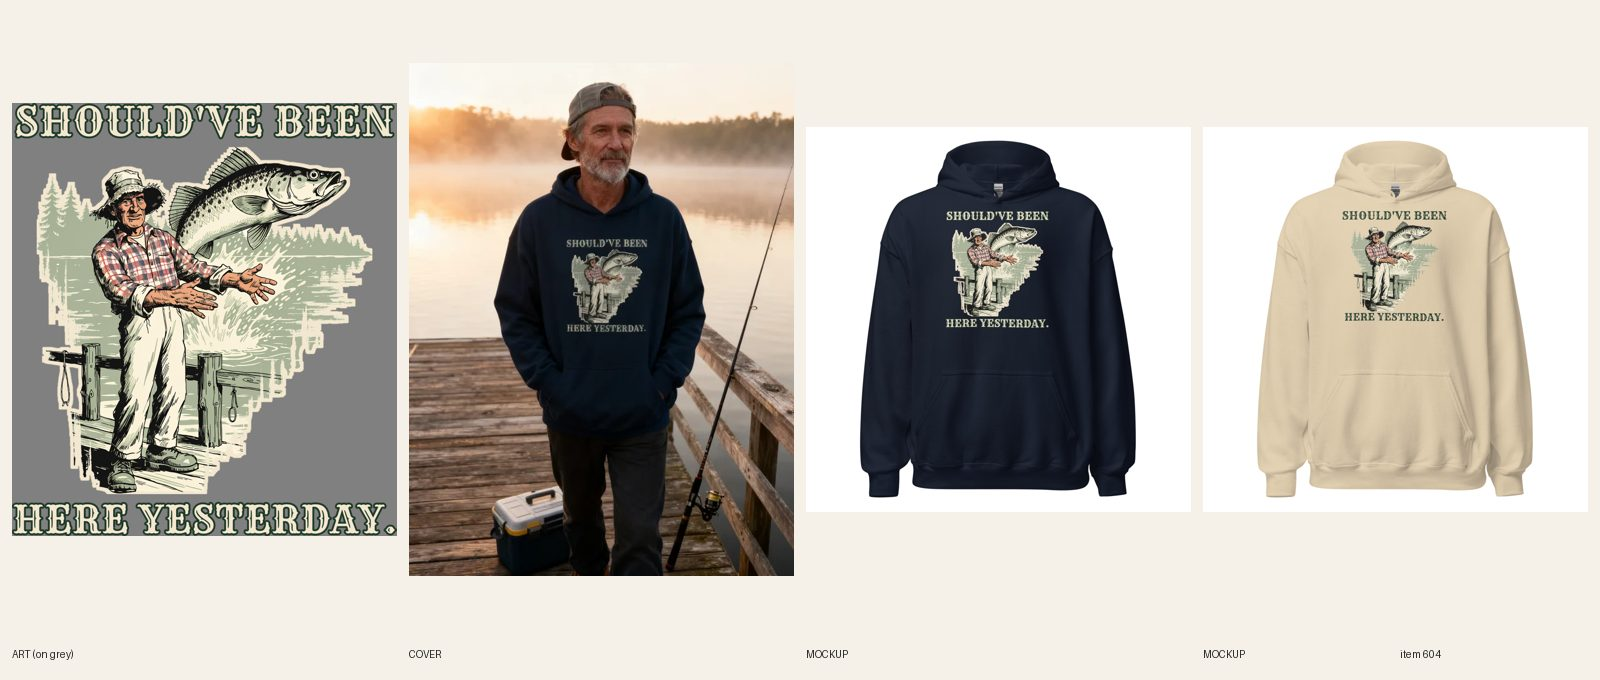
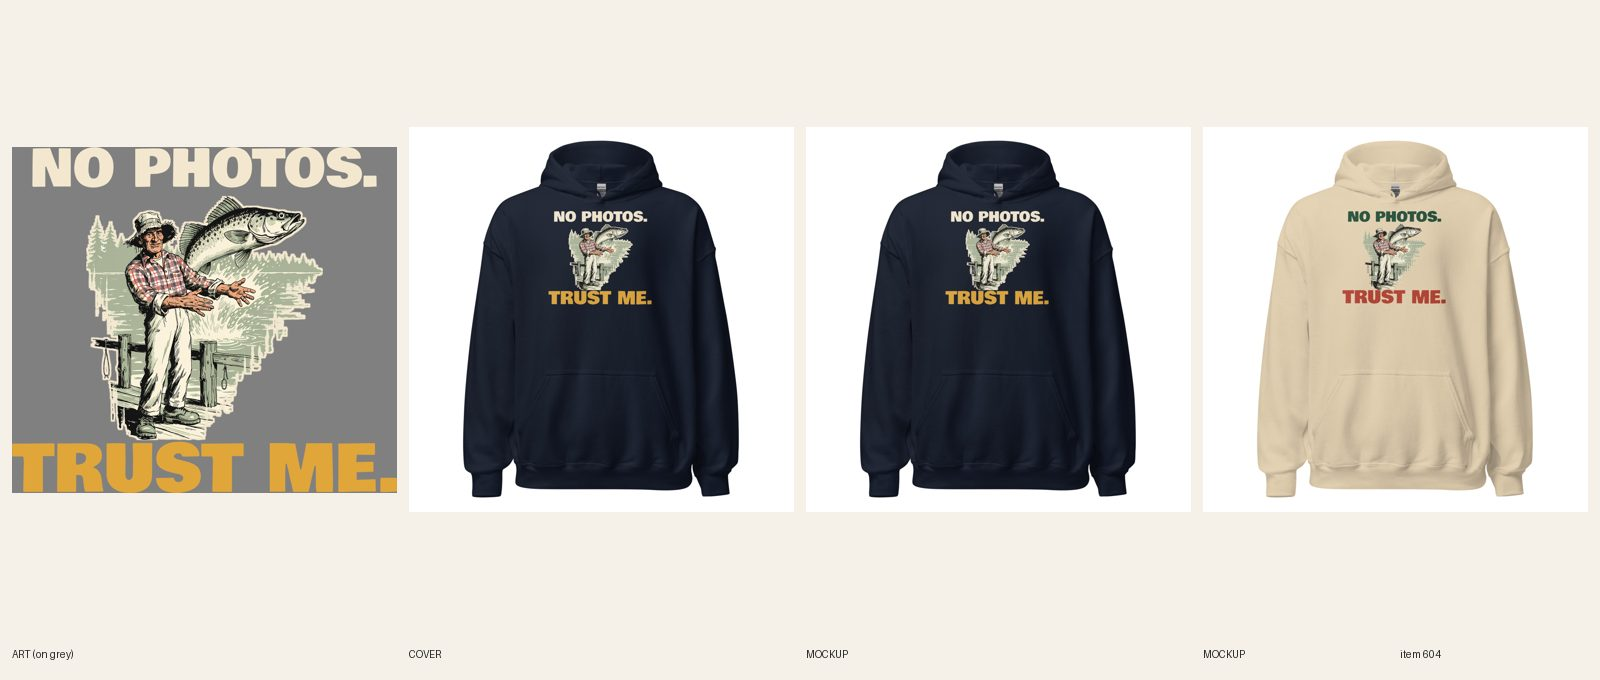
[C] review 604 fishing hoodie No Photos Trust Me

Changed region(s): [[0.0, 0.1235, 0.5, 0.8647], [0.8438, 0.3088, 0.9062, 0.4941], [0.5938, 0.3088, 0.6562, 0.4941]]

diff --git a/docs/pipeline/604-fishing-hoodie-shouldve-been-here-yesterday.md b/docs/pipeline/604-fishing-hoodie-shouldve-been-here-yesterday.md
@@ -1,4 +1,4 @@
-status: BUILDING [C] 2026-10-20 22:00 UTC
+status: REVIEW
 shopify: gid://shopify/Product/15364884529456
 lane: C
 type: twin
@@ -35,3 +35,4 @@ kd: 36
 - 2026-10-18 08:19 UTC director: LIVE. Sheet reviewed (R3, R4/R5, R6, R8, R13.3); copy OK. ACTIVE + Online Store, Headless, Google & YouTube; cohesion-audit --handle PASS 0 warn.
 - 2026-10-18 17:22 UTC director: QUALITY RESET grade C (new line + type), REDO. The product stays ACTIVE (same handle, URL, title keyword). 1. Line (R3.12, quality-reset 'Lines'): "Should've Been / Here Yesterday.": Stock fishing saying, not a joke for a stranger; needs angler backstory. Write 5 candidates, keep the one a stranger laughs at in 3 seconds without backstory; kill lines that only describe the picture; if none of the 5 is funny, PARK it. 2. Quality reset type bar (docs/backlog/quality-reset.md, 'The new bar'): headline at least 90% of the art width, heavy, colors pulled from the art; second line at least 45% of the headline's height, never a thin script on a dark or mid garment; use the lettering as a shape (arch, stacked lockup, words breaking into the art), not a plain bar above and a script line below; no font used on more than 1 in 6 of the last 30 designs. 3. Keep the art if it carries the new line, else one new illustration (R4/R5). New print means a new cover per R6.10, copy line one rewritten for the new joke (R8.3), and a fresh review sheet (R7.7). While quality-reset.md says PAUSED, only lane A builds, and only the samples step 2 names.
 - 2026-10-20 09:47 UTC builder [C]: HELD, not started: source design #543 (lane B) is still a REDO and has not picked its new line; a twin carries the design's line (R3.9), so building #604 first would split the line between the two. Back to REDO; take it right after #543 reaches REVIEW (then port its print).
+- REDO done (twin of #543 round 2): new line NO PHOTOS. / TRUST ME. ported (the 5 candidates and the joke QC are on #543). Title now Men's Fishing – No Photos, Trust Me Hoodie (handle unchanged); SEO title 'Men's Fishing Pullover – No Photos, Trust Me Hoodie' (fishing pullover primary), meta, copy line one and 5 FAQs (46-53 words, order-by Dec 8) rewritten; line one says the print's words + who + when, no superlative. Source #543 lettering already checked (real fonts, no panel). Widths from #543's files: NO PHOTOS. 3060 px / TRUST ME. 3399 px (punch 111% of headline), subject 61% of lockup width, type 38% of print height. Light file: Sand on 1090694257 (dark ink: forest green + red), Navy on 1090694354 (cream + mustard, cream edge on the art). FW 1500 TOP 0 (print 1,349 px high, ends above the pouch seam). Verified 12/12 relinked (6 Sand, 6 Navy, back logo 1080398177 kept). 2 fronts replaced in place with new alts, back unchanged. Phone-size read of both: NO PHOTOS., the angler, the leaping walleye and TRUST ME. all read. Cover: old AI cover shows old words, handle added to retired-covers.json (flat shot). fal $0.

diff --git a/docs/intake-log.md b/docs/intake-log.md
@@ -5,6 +5,7 @@ RUNNING lane B since 2026-10-20 21:46 UTC
 2026-10-20 21:31 UTC — [C] Builder run: #693 strawberry mug punch widened to 100% of headline, REVIEW.
 2026-10-20 21:30 UTC — [C] Builder run: #692 alien mug photos re-attached (3 mockups), REVIEW.
 RUNNING lane C since 2026-10-20 21:30 UTC
+[C] Builder run: #604 men's fishing hoodie ported to NO PHOTOS. TRUST ME., REVIEW.
 [C] Builder run: #635 women's fishing zip hoodie AGAIN. widened to the headline's width, REVIEW.
 2026-10-20 21:50 UTC — [D] Director run: 6 LIVE (the cap), add-ons first per the inbox order, all approved 20:25 and re-read beside 493 and 483: mugs #690 Pillaging Is a Young Man's Game, #691 Horse Girl, Broke on Purpose; Frenchie ornaments #721 Silent Night. Except the Snoring., #725 Santa's Cookies? What Cookies., #727 I'm Helping. You're Welcome.; sweatpants #711 Rack Your Weights. Respectfully. (ACTIVE + Online Store, Headless, Google & YouTube; audit --handle PASS). Reviewed the 4 new items: approved and held #714 and #715 sweatpants; REDO #742 barre cropped hoodie (R5.3.4 swan holds the barre with a human hand like a pole; plain bars around a small figure). Article #801 Funny Hoodies: committed without draft: true, so it went live unreviewed at 20:46; read it, checked all six picks on Shopify (live, $39.99, colors right), fixed one 'hand-drawn' line, approved; writer card now says to check for the draft line. Briefs: #753 boxing hoodie (3,600 / KD 20, lane B) and #754 turtle hoodie (880 / KD 31, lane C); READY now A 12 / B 12 / C 12 / E 11. Kids line noted (needs a youth-hoodie blank check and audit support first). Re-asked Sam on Telegram, in plain words, whether the ~80 already-on-sale redos can be signed off outside the 6-LIVE cap. No digest (12:17 run sent it). Lock released.
 2026-10-20 20:48 UTC — [H] Helper run: Telegram inbox had 1 message from Sam (not a command: he is unsure what the director is asking permission for). Logged a paraphrase in docs/inbox.md, replied "Got it, passing it to the director (next run about 21:50 UTC).", consumed the update. Audit 636 live products: 0 errors, 61 warnings left alone; committed docs/cohesion-audit.md and .json. Price check: announcement bar already on the holiday line, 0 price errors. Category check: 0 products without a Shopify category (no mutation). Site check: nana-mom-said-no-thats-cute-mug, bigfoot-camera-shy-mug and owl-night-owl-retired-mug all 200; homepage 200. Stuck work: none (742 claimed 20:34; lane B lock fresh). Daily summary not due (sent at the 12:49 run). Lock released.
